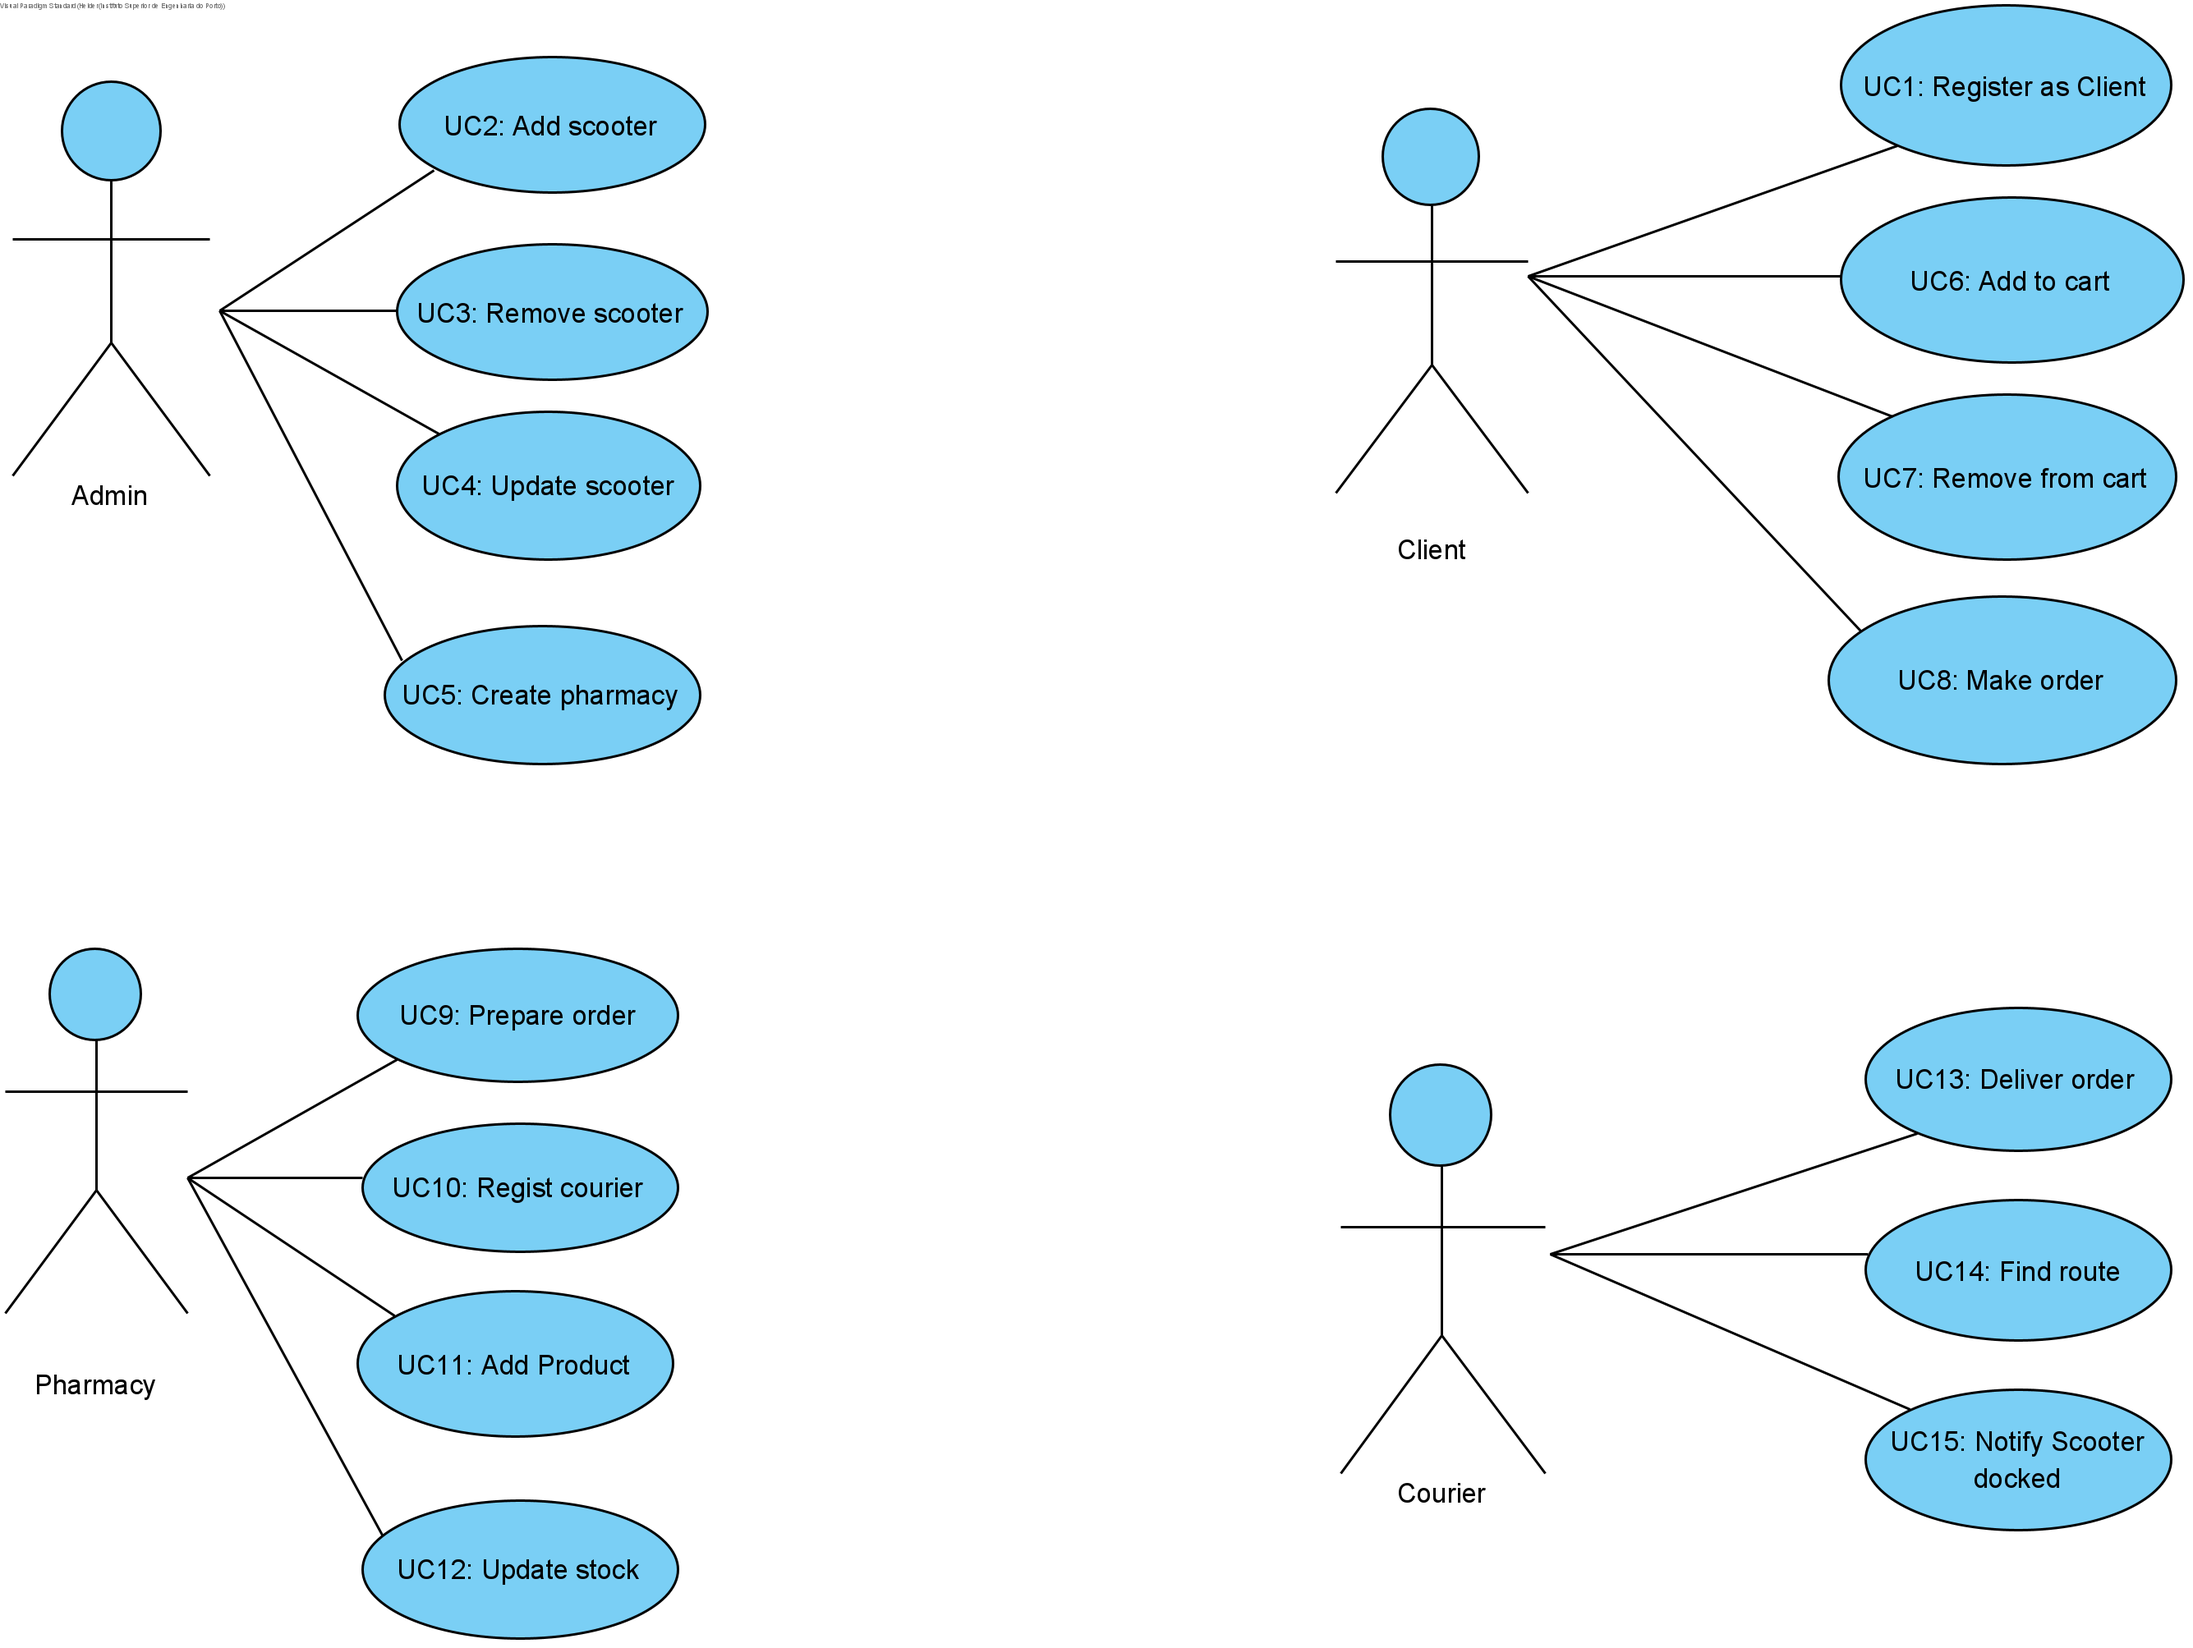
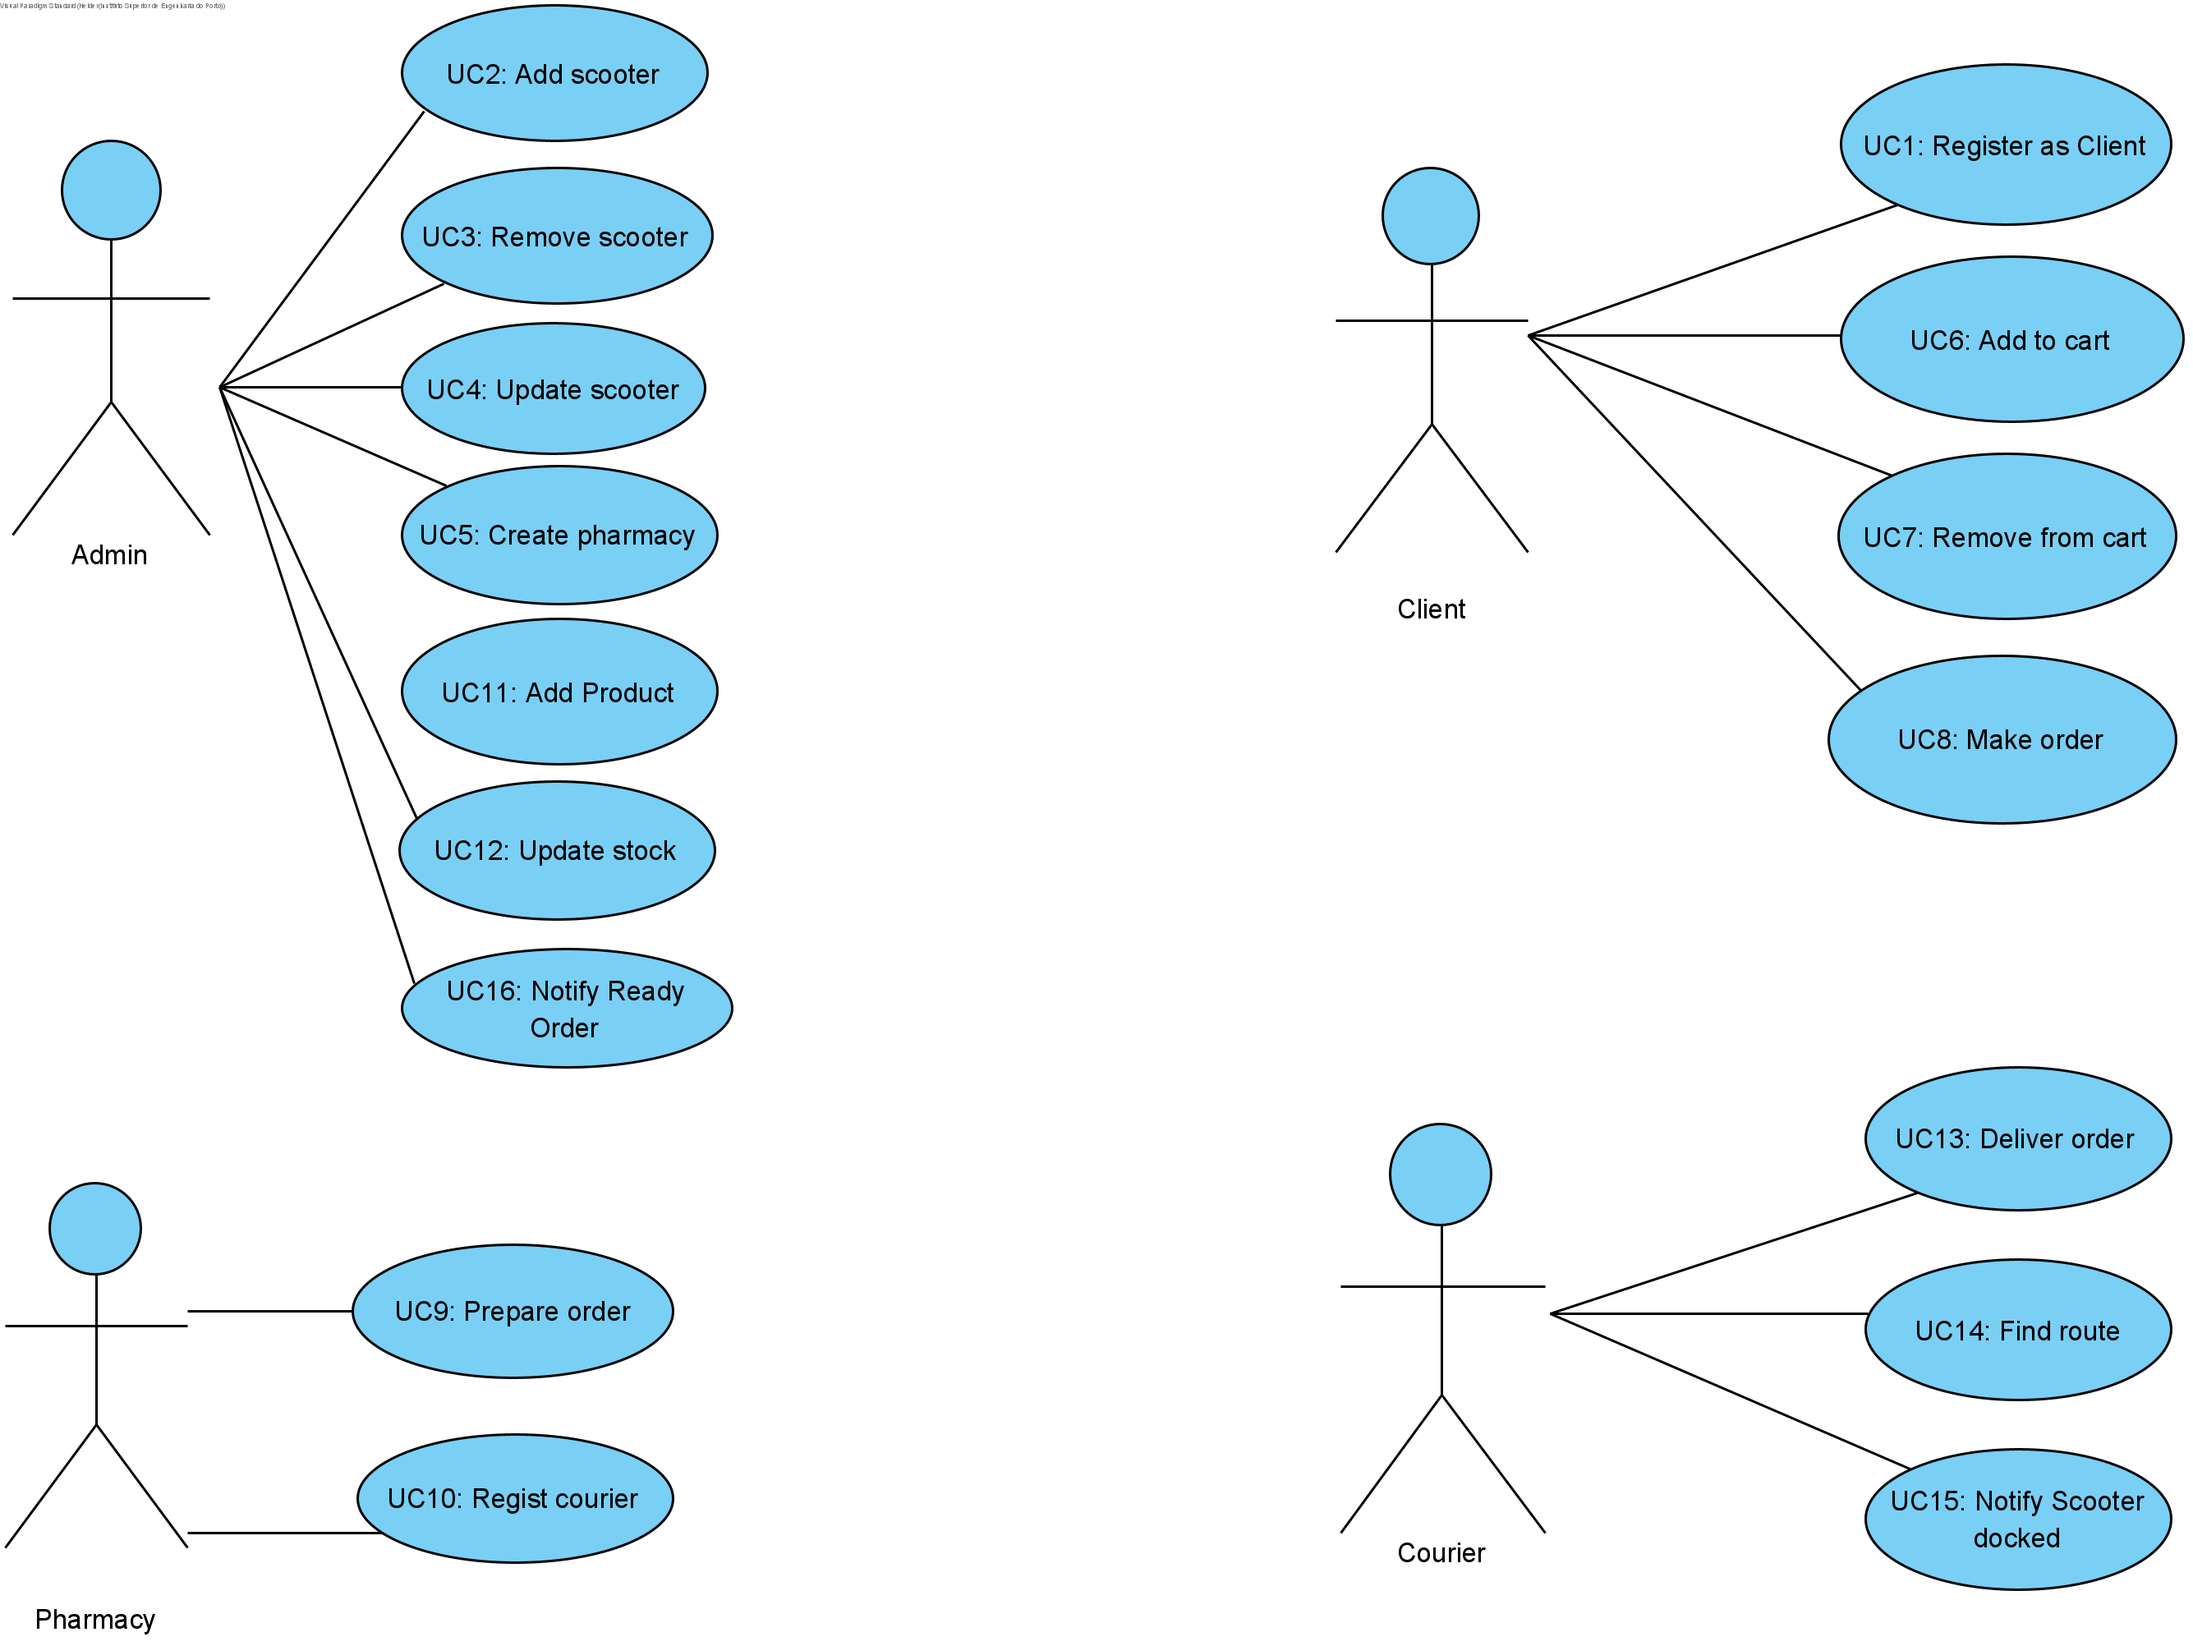
MEN09-2016 #close Notify Ready Order [Analysis]

diff --git a/documentation/use_cases/UC16/UC16_NotifyReadyOrder.md b/documentation/use_cases/UC16/UC16_NotifyReadyOrder.md
@@ -1,0 +1,32 @@
+# UC16 - Notify Ready Order
+
+## 1. Requirements Engineering
+The admin start notifing a ready order. The system shows the orders in "preparing" status. The admin selects an order.The system shows data and ask for confirmation. The admin confirms. The system informs the admin of the succes of the operation.
+
+## SSD
+![UC16_SSD.png](UC16_SSD.png)
+
+#### Main Actor
+
+Admin
+
+#### Stakeholders and their interests
+* **Admin:** wants to have a order ready to delivery.
+* **Courier:** wants that admin prepare order, so that courier can delivery it.	.
+
+#### Pre Conditions
+The order should be maked
+
+## 2. Engineering Design
+
+## Sequence Diagram
+![UC16_SD.png](UC16_SD.png)
+
+
+
+## Class Diagram
+![UC16_CD.png](UC16_CD.png)
+
+____
+
+[Back to Use Cases](../UseCases.md)
